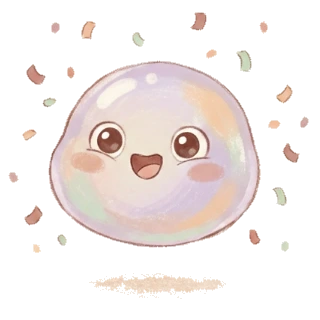
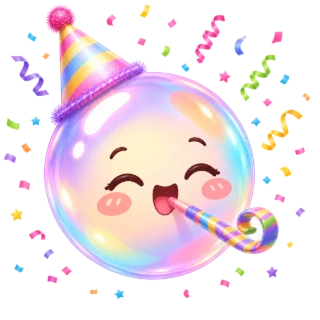
Mais quatro expressões do Bebê Bolha, e o placar passa a falar em estrelas
AS ARTES. Cinco das seis já são a personagem nova; `preocupada` é a única
que continua em aquarela, porque a expressão não foi desenhada e NÃO dá
para emprestar outra: `surpresa` num "a sequência acabou" lê como
animação, e `feliz` apagaria o sinal. Cara que contradiz o que a tela diz
é pior que diferença de traço.

Duas delas (`comemorando` e `surpresa`) chegaram SEM canal alfa e com o
quadriculado de transparência PINTADO dentro — artefato do gerador. Ele
saiu por preenchimento a partir das bordas, e não por "todo pixel claro
vira transparente": este último furaria os reflexos brancos DENTRO da
bolha, que são claros e sem cor exatamente como o xadrez.

O ENQUADRAMENTO casa a ESFERA da arte `feliz` (221px de diâmetro, centro
em 153×132 na caixa de 320), e não a caixa da imagem — a caixa inclui
faíscas, confete e o ZZZ, que ficam em lugares diferentes em cada arte, e
casar por ela encolheria a esfera para caber os extras. Onde os extras não
cabiam nesse tamanho (o chapéu de festa, o ZZZ), a escala cedeu o mínimo:
bolha um tico menor num humor é melhor que chapéu cortado ao meio.

ONDE CADA UMA ENTRA:

- `comemorando` e `dormindo` trocaram de arte, mesmos gatilhos.
- `orgulhosa` (a piscadinha) é humor NOVO, em dois lugares:
  · dia fechado, na folha do dia. A festa tem chapéu e confete: é arte de
    INSTANTE, e a folha não sabe distinguir "acabei de fechar" de "abri de
    novo às 22h". Mostrada nas duas, ela vira papel de parede.
[…]

diff --git a/src/components/gestacao-path.tsx b/src/components/gestacao-path.tsx
@@ -6675,13 +6675,18 @@ function WellnessScreen({
                   `careMode` VAI para o componente, não só para o texto: a arte
                   de "comemorando" tem confete pintado dentro dela, e o portão
                   do luto mora lá justamente para o chamador não esquecer. */}
+              {/* `diaFeito` e NÃO `comemorando`, embora os dois saiam do mesmo
+                  `halves >= 6`. A arte de comemorar tem chapéu de festa e
+                  confete — é arte de INSTANTE, e esta tela não sabe distinguir
+                  "acabei de fechar o dia" de "abri de novo às 22h". Mostrada
+                  nas duas, a festa vira papel de parede e perde o efeito
+                  justamente onde ele importa.
+                  A festa continua onde existe o instante: ao terminar uma
+                  atividade e ao gabaritar o quiz. Aqui fica a piscadinha, que
+                  é o "eu vi o que você fez" sem estourar confete de novo. */}
               <Bolha
                 tamanho={298}
-                humor={humorDaJornada({
-                  comemorando: halves >= 6,
-                  diaFeito: halves >= 6,
-                  careMode,
-                })}
+                humor={humorDaJornada({ diaFeito: halves >= 6, careMode })}
                 careMode={careMode}
               />
 
@@ -6878,16 +6883,21 @@ function WellnessScreen({
                 por momento do dia, acesas conforme ela anda. A promessa
                 continua, virou a última linha.
 
-                ─── SEIS ESTRELAS, E POR QUE O TEXTO NÃO DIZ "ESTRELAS" ─────
-                O desenho traz seis estrelas e a legenda "2/6 estrelas
-                conquistadas". Nesta base os dois números são coisas
-                diferentes: `halves` conta os SEIS momentos do dia (5 de
-                bem-estar + a aula), e a recompensa por fechar o dia são TRÊS
-                estrelas — a moeda que ela gasta na Loja. Escrever "6 estrelas"
-                prometeria o dobro do que o app paga, e ela descobriria isso no
-                fim do dia.
-                Então: seis estrelas no desenho, uma por momento (que é o que a
-                referência mostra), e a legenda fala de MOMENTOS. */}
+                ─── "ESTRELAS", E A CONTRADIÇÃO QUE ISSO CRIOU ──────────────
+                A legenda diz "N/6 estrelas conquistadas", como no desenho e
+                como o dono pediu. Mas a linha de baixo prometia "feche os 6 e
+                ganhe 3 estrelas" — dois números para a mesma moeda, no MESMO
+                cartão. Quem lesse os dois só podia concluir que o app não sabe
+                quantas estrelas está pagando.
+                Quem cedeu foi a promessa, porque ela era imprecisa de qualquer
+                jeito: o que o app credita ao fechar o dia é SEMENTINHAS 🌱
+                (`grantSementinhas`, com "3 estrelas do dia" apenas como nome
+                da conquista). Agora a última linha diz o que de fato cai na
+                carteira dela.
+                Fica de fora deste commit, e vale registrar: o medidor da
+                trilha e o aviso de fim de dia continuam falando em TRÊS
+                estrelas (seis meias). É a mesma jornada contada em duas
+                denominações, e uma hora precisa ser unificada. */}
             {!careMode && (
               <div
                 className="mt-3 rounded-[22px] px-4 py-4"
@@ -6912,7 +6922,7 @@ function WellnessScreen({
                 <div
                   className="mt-3 flex items-center justify-center gap-3.5"
                   role="img"
-                  aria-label={`${halves} de 6 momentos concluídos`}
+                  aria-label={`${halves} de 6 estrelas conquistadas`}
                 >
                   {[0, 1, 2, 3, 4, 5].map((i) => (
                     <EstrelaDoDia key={i} acesa={i < halves} tamanho={38} />
@@ -6923,26 +6933,26 @@ function WellnessScreen({
                   <span className="text-[16px] font-bold tabular-nums" style={{ color: tinta }}>
                     {halves}/6
                   </span>{" "}
-                  momentos concluídos
+                  estrelas conquistadas
                 </p>
                 <p className="mt-1 text-center text-[12px]" style={{ color: tintaSec }}>
                   {halves >= 6 ? (
-                    "Dia completo! As 3 estrelas são suas 🌟"
+                    "Dia completo! Você acendeu as seis 🌟"
                   ) : halves > 0 ? (
                     <>
-                      Continue assim! Feche os 6 e ganhe{" "}
+                      Continue assim! Acenda as 6 e ganhe{" "}
                       <span className="font-semibold" style={{ color: "#7c3aed" }}>
-                        3 estrelas
+                        Sementinhas
                       </span>{" "}
-                      💗
+                      🌱
                     </>
                   ) : (
                     <>
-                      Comece por onde quiser — feche os 6 e ganhe{" "}
+                      Comece por onde quiser — acenda as 6 e ganhe{" "}
                       <span className="font-semibold" style={{ color: "#7c3aed" }}>
-                        3 estrelas
+                        Sementinhas
                       </span>{" "}
-                      ✨
+                      🌱
                     </>
                   )}
                 </p>
@@ -7241,10 +7251,15 @@ function DailyQuizBlock({
                     exatamente o peso que se pediu para tirar. Ela só está
                     junto. */}
                 <span className="dc-result-in">
+                  {/* Três caras para três resultados, e não duas para dois: a
+                      festa (chapéu e confete) é para quem GABARITOU, e usá-la
+                      também no "acertou 2 de 5" gasta a comemoração — depois
+                      dela, acertar tudo não tem mais o que ganhar. No meio
+                      entra a piscadinha, que é elogio sem festa. */}
                   <Bolha
                     tamanho={84}
-                    humor={score > 0 ? "comemorando" : "feliz"}
-                    entrada={score > 0 ? "pulo" : undefined}
+                    humor={score === total ? "comemorando" : score > 0 ? "orgulhosa" : "feliz"}
+                    entrada={score === total ? "pulo" : undefined}
                     careMode={careMode}
                   />
                 </span>

diff --git a/src/components/bolha.tsx b/src/components/bolha.tsx
@@ -66,28 +66,47 @@ import feliz from "@/assets/bolha/feliz.webp";
 import comemorando from "@/assets/bolha/comemorando.webp";
 import dormindo from "@/assets/bolha/dormindo.webp";
 import preocupada from "@/assets/bolha/preocupada.webp";
+import orgulhosa from "@/assets/bolha/orgulhosa.webp";
+import surpresa from "@/assets/bolha/surpresa.webp";
 
-export type Humor = "feliz" | "comemorando" | "dormindo" | "preocupada";
+export type Humor = "feliz" | "comemorando" | "dormindo" | "preocupada" | "orgulhosa" | "surpresa";
 
 /**
- * ─── AS QUATRO ARTES, E UMA TROCA PELA METADE (ago/2026) ────────────────────
+ * ─── AS ARTES DO BEBÊ BOLHA (ago/2026) ──────────────────────────────────────
  *
- * `feliz` é a arte NOVA do Bebê Bolha (pedido do dono: "o personagem agora é o
- * bebê bolha"). As outras três continuam com a personagem anterior, em aquarela
- * — e a diferença de traço aparece assim que o humor muda.
+ * Cinco das seis já são a personagem nova. `preocupada` é a única que ainda
+ * está na personagem anterior, em aquarela — a expressão não foi desenhada, e
+ * NÃO dá para emprestar outra: `surpresa` num "a sequência acabou" lê como
+ * animação, e `feliz` apagaria o sinal. Uma cara que contradiz o que a tela
+ * diz é pior que uma diferença de traço.
  *
- * Não dá para usar a arte nova nas quatro: ela SORRI. Pôr um sorriso onde o
- * app quer dizer "preocupada" ou "dormindo" é pior que a inconsistência de
- * estilo, porque aí a cara passa a contradizer o que a tela está dizendo.
+ * ─── TODAS PARTEM DA MESMA ESFERA ───────────────────────────────────────────
  *
- * Falta, então, a mesma personagem em três expressões: comemorando, dormindo e
- * preocupada. Enquanto elas não chegam, o enquadramento é o que segura a
- * emenda: a arte nova foi recortada para a ESFERA cair no mesmo tamanho e na
- * mesma altura da antiga (222px de diâmetro, centro em 153×131 na caixa de
- * 320). Casar pela caixa da imagem, e não pela esfera, faria o personagem
- * mudar de tamanho ao trocar de humor — na mesma tela, na mesma bolha.
+ * `Bolha` desenha a arte num quadrado de `tamanho` e põe a sombra do chão POR
+ * FORA da imagem, então o enquadramento é o que impede o personagem de mudar
+ * de tamanho e de altura ao trocar de humor — na mesma tela, na mesma bolha.
+ * As cinco novas foram recortadas casando a ESFERA da arte `feliz` (221px de
+ * diâmetro, centro em 153×132 na caixa de 320), e não a caixa da imagem: a
+ * caixa inclui faíscas, confete e o ZZZ, que estão em lugares diferentes em
+ * cada arte, e casar por ela encolheria a esfera para caber os extras.
+ *
+ * Onde os extras não cabiam nesse tamanho — o chapéu de festa do
+ * `comemorando`, o ZZZ do `dormindo` —, a escala cedeu o mínimo. Bolha um tico
+ * menor num humor é melhor que chapéu cortado ao meio.
+ *
+ * As artes de `comemorando` e `surpresa` chegaram SEM canal alfa e com o
+ * quadriculado de transparência PINTADO dentro (artefato do gerador). Ele saiu
+ * por preenchimento a partir das bordas, e não por "todo pixel claro vira
+ * transparente" — este último furaria os reflexos brancos dentro da bolha.
  */
-const ARTE: Record<Humor, string> = { feliz, comemorando, dormindo, preocupada };
+const ARTE: Record<Humor, string> = {
+  feliz,
+  comemorando,
+  dormindo,
+  preocupada,
+  orgulhosa,
+  surpresa,
+};
 
 /**
  * Que cara ela faz, a partir do estado da jornada.
@@ -119,6 +138,12 @@ export function humorDaJornada(o: {
   if (o.comemorando) return "comemorando";
   if (o.sequenciaPerdida) return "preocupada";
   if (o.noite && o.diaFeito) return "dormindo";
+  /* ORGULHOSA — a piscadinha. Fica entre a festa e o repouso: o dia está
+     fechado, mas não é o instante da comemoração nem a hora de dormir. É o que
+     ela encontra quando VOLTA à tela depois de ter feito tudo. Antes caía em
+     `feliz`, a mesma cara de quem ainda não começou — e a bolha deixava de
+     reparar no dia dela. */
+  if (o.diaFeito) return "orgulhosa";
   return "feliz";
 }
 

diff --git a/src/routes/preview-bolha.tsx b/src/routes/preview-bolha.tsx
@@ -27,7 +27,14 @@ const CICLO = [
   { fase: "out" as const, dur: 6000 },
 ];
 
-const HUMORES: Humor[] = ["feliz", "comemorando", "dormindo", "preocupada"];
+const HUMORES: Humor[] = [
+  "feliz",
+  "comemorando",
+  "dormindo",
+  "preocupada",
+  "orgulhosa",
+  "surpresa",
+];
 
 function Preview() {
   const [i, setI] = useState(0);
